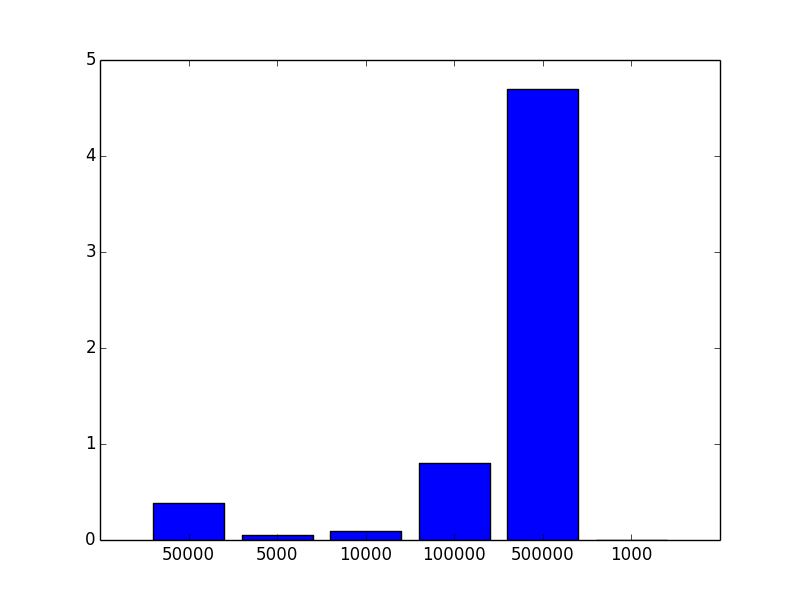
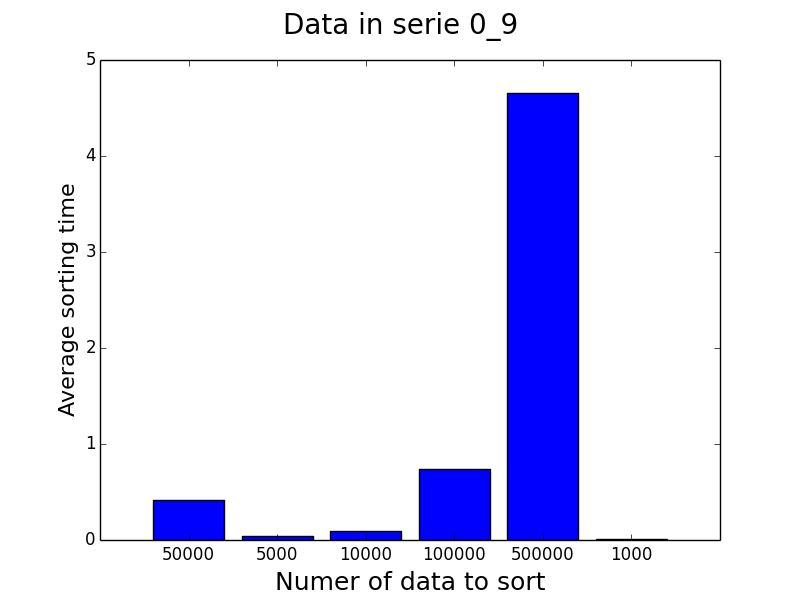
Adding title and axis label to graphe

diff --git a/TP1/Tp1.py b/TP1/Tp1.py
@@ -113,6 +113,10 @@ for i in range(0,6):
 
 plt.bar(range(len(time_dictionary)), time_dictionary.values(), align='center')
 plt.xticks(range(len(time_dictionary)), list(time_dictionary.keys()))
+plt.suptitle('Data in serie 0_9', fontsize=20)
+plt.xlabel('Numer of data to sort', fontsize=18)
+plt.ylabel('Average sorting time', fontsize=16)
+plt.savefig('data_10_19.png')
 plt.savefig('data_0_9.png')
 
 
@@ -141,6 +145,9 @@ for i in range(0,6):
 
 plt.bar(range(len(time_dictionary)), time_dictionary.values(), align='center')
 plt.xticks(range(len(time_dictionary)), list(time_dictionary.keys()))
+plt.suptitle('Data in serie 10_19', fontsize=20)
+plt.xlabel('Numer of data to sort', fontsize=18)
+plt.ylabel('Average sorting time', fontsize=16)
 plt.savefig('data_10_19.png')
 
 
